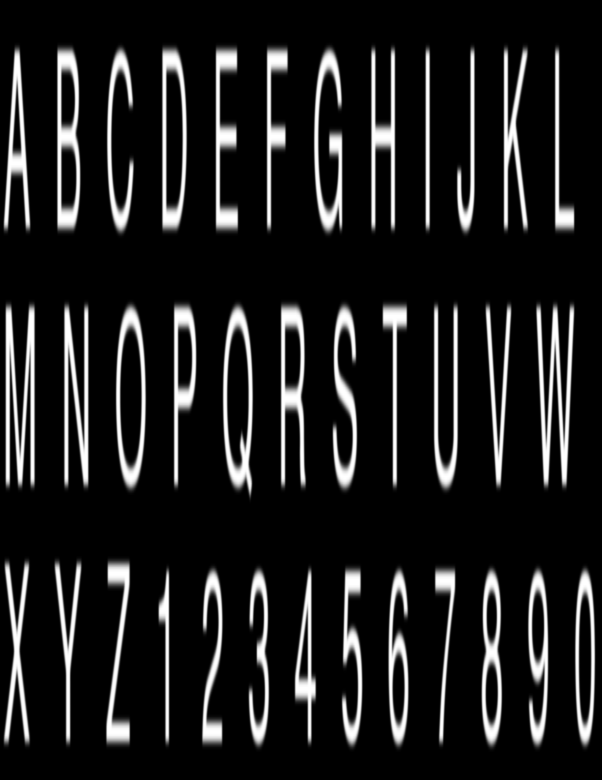
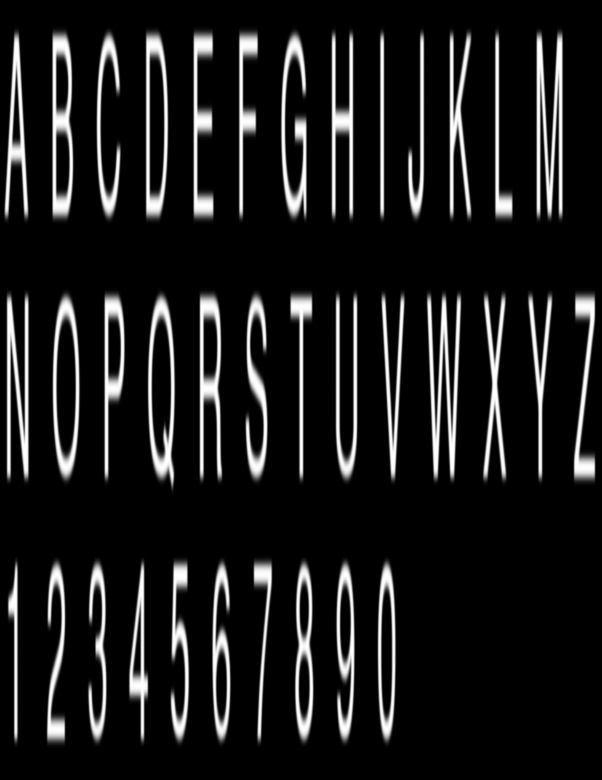
different images used for character space

diff --git a/Suchit's CV/Number plate OCR/number plate detection.py b/Suchit's CV/Number plate OCR/number plate detection.py
@@ -15,12 +15,13 @@ class PyImageSearchANPR:
         self.upper_chars_pos = []
         self.middle_chars_pos = []
         self.lower_chars_pos = []
-        self.up_chars = 'ABCDEFGHIJKL'
-        self.mid_chars = 'MNOPQRSTUVW'
-        self.low_chars = 'XYZ1234567890'
+        self.up_chars = 'ABCDEFGHIJKLM'
+        self.mid_chars = 'NOPQRSTUVWXYZ'
+        self.low_chars = '1234567890'
 
     def character_space_creation(self, image):
         image = cv2.GaussianBlur(image, (7, 7), 0)
+
         # finding negative of the given image
         def negative(img):
             img = cv2.cvtColor(img, cv2.COLOR_BGR2GRAY)
@@ -157,17 +158,26 @@ class PyImageSearchANPR:
         self.debug_imshow('middle half', middle_half)
         character_space(middle_half, self.middle_chars_pos)
 
+        # creating letter character space
+        cv2.imwrite('letter_char_space.png', char_space[: (2 * height) // 3])
+
+        # creating number character space
+        cv2.imwrite('number_char_space.png', char_space[(2 * height) // 3:])
+
         # finding horizontal positions of characters in second half of character space
         second_half = char_space[(2 * height) // 3:, :]
         self.debug_imshow('second half', second_half)
         character_space(second_half, self.lower_chars_pos)
         return
 
-    def template_matching(self, template):
+    def template_matching(self, template, track):
         # the letter from the plate that needs to be identified is called template
         height, width = template.shape[: 2]
         # character space containing all possible characters
-        space = cv2.imread('char_space.png', 0)
+        if track <= 2 or track == 5:
+            space = cv2.imread('letter_char_space.png', 0)
+        else:
+            space = cv2.imread('number_char_space.png', 0)
         # result of template matching
         res = cv2.matchTemplate(space, template, cv2.TM_CCOEFF_NORMED)
         min_val, max_val, min_loc, max_loc = cv2.minMaxLoc(res)
@@ -188,12 +198,15 @@ class PyImageSearchANPR:
         text = ''
         height, width = plate.shape[: 2]
         # i = current column in the image
-        i = 0
+        # track = number of blank spaces encountered up until that iteration; will help to figure out
+        # whether the next character is letter or number
+        i, track = 0, 0
         while i < width:
             # blank space
             if np.sum(plate[:, i]) == 0:
                 while i < width and np.sum(plate[:, i]) == 0:
                     i += 1
+                track += 1
             else:
                 # start of character in the license plate
                 region_left = i
@@ -205,25 +218,25 @@ class PyImageSearchANPR:
                 template = plate[:, region_left: region_right + 1].copy()
                 self.debug_imshow('a', template)
 
-                pos = self.template_matching(template)
+                pos = self.template_matching(template, track)
 
                 # if the matched character belongs to lower characters
-                if pos[1] >= 2 * self.char_height:
-                    ind = bisect_left(self.lower_chars_pos, int(pos[0])) - 1
-                    if ind >= len(self.low_chars):
-                        ind = len(self.low_chars) - 1
-                    text = text + self.low_chars[ind]
-                # if the matched characters belongs to upper characters
-                elif pos[1] >= self.char_height:
+                if (track <= 2 or track == 5) and pos[1] >= self.char_height:
                     ind = bisect_left(self.middle_chars_pos, int(pos[0])) - 1
                     if ind >= len(self.mid_chars):
                         ind = len(self.mid_chars) - 1
                     text = text + self.mid_chars[ind]
-                else:
+                # if the matched characters belongs to upper characters
+                elif (track <= 2 or track == 5) and pos[1] < self.char_height:
                     ind = bisect_left(self.upper_chars_pos, int(pos[0])) - 1
                     if ind >= len(self.up_chars):
                         ind = len(self.up_chars) - 1
                     text = text + self.up_chars[ind]
+                else:
+                    ind = bisect_left(self.lower_chars_pos, int(pos[0])) - 1
+                    if ind >= len(self.low_chars):
+                        ind = len(self.low_chars) - 1
+                    text = text + self.low_chars[ind]
 
         return text
 
@@ -260,7 +273,7 @@ class PyImageSearchANPR:
 if __name__ == '__main__':
     ob = PyImageSearchANPR(debug=True)
     # can choose c also
-    char_space = cv2.imread('c.png', 1)
+    char_space = cv2.imread('c1.png', 1)
     ob.character_space_creation(char_space)
     img = cv2.imread('plate.jpeg', 1)
     ob.character_optimization()
